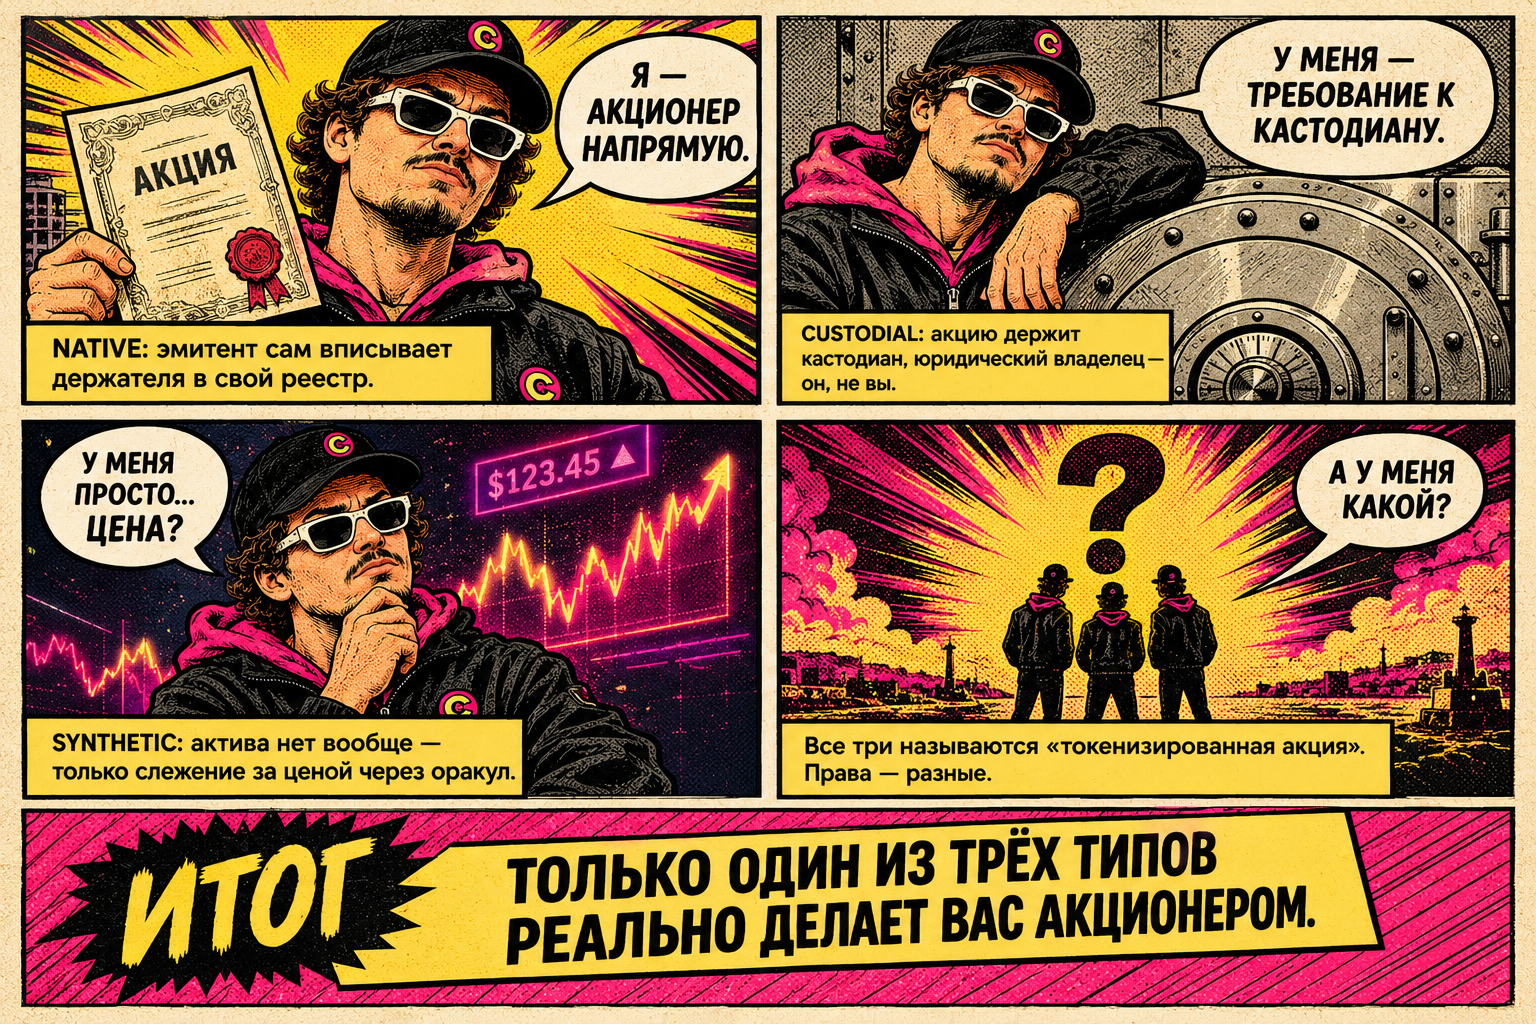
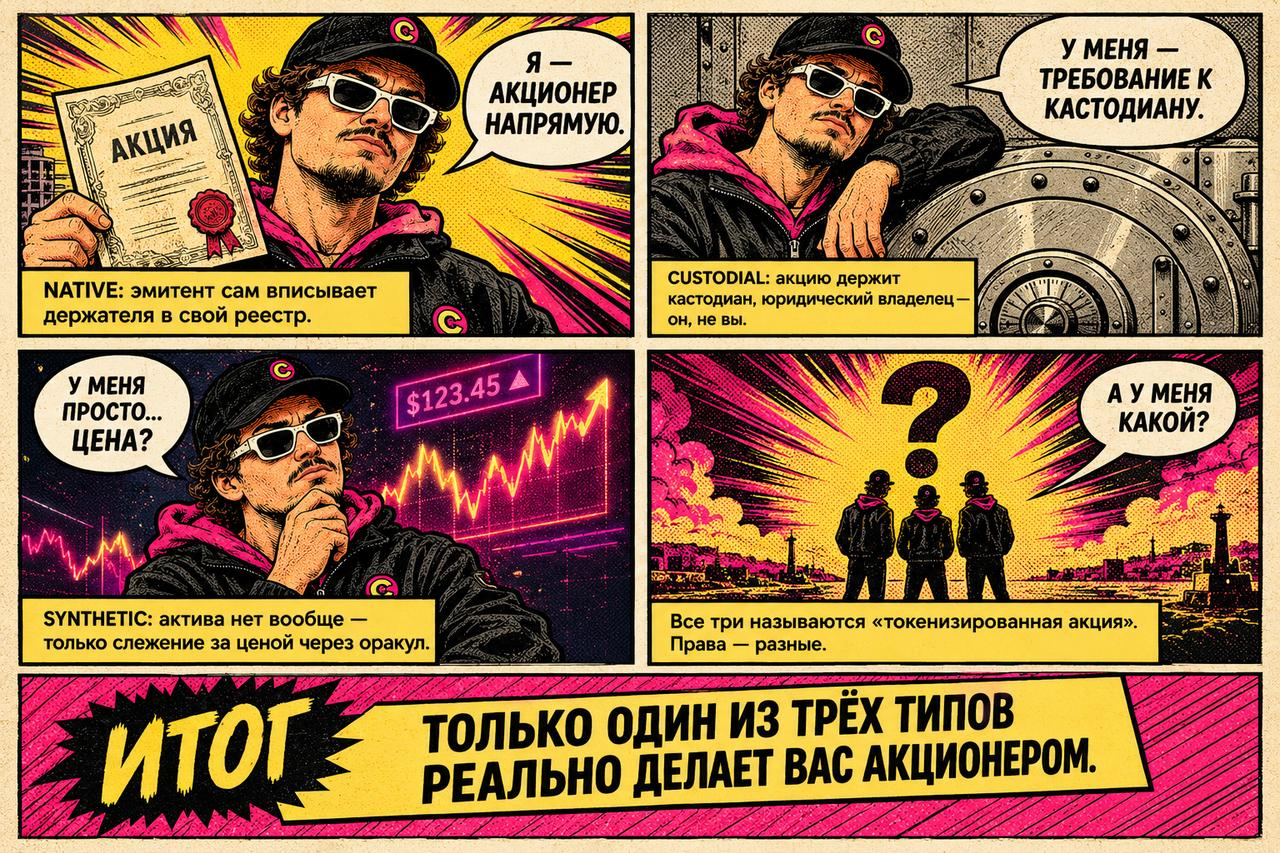
Тотальная оптимизация ассетов: ~24.6 МБ -> ~2.6 МБ без потери функционала
- keychain.png 1.68 МБ -> keychain.webp 140 КБ (альфа сохранена, хотспоты и анимации не тронуты)
- комиксы glossary: 6 x 3.6 МБ -> 340-485 КБ (1280px, progressive JPEG q75)
- OG-карточки: coursepreview 2.2 МБ -> 123 КБ, glossarypreview 1.8 МБ -> 89 КБ (ровно 1200x630)
- yurichhub/ai-screen/hermes/nebank/cfa/indexpreview: -45..-73%
- loading=lazy + decoding=async + width/height всем картинкам ниже фолда, hero: fetchpriority=high
- CSS/JS/анимации/структура не менялись

diff --git a/glossary.html b/glossary.html
@@ -496,7 +496,7 @@
         <div class="comic-plate">
           <div class="cp-kicker">Раздел 01 · в двух словах</div>
           <p class="cp-caption">почему «рынок вырос до $30 млрд» — не вся правда</p>
-          <div class="cp-frame" data-hint="comics1.jpg — сюда вставить фото"><img src="comics1.jpg" alt="Комикс: Total Value против TVL" onerror="this.style.display='none';this.parentNode.classList.add('no-img')"></div>
+          <div class="cp-frame" data-hint="comics1.jpg — сюда вставить фото"><img src="comics1.jpg" alt="Комикс: Total Value против TVL" onerror="this.style.display='none';this.parentNode.classList.add('no-img')" loading="lazy" decoding="async" width="1024" height="1536"></div>
         </div>
       </section>
 
@@ -554,7 +554,7 @@
         <div class="comic-plate">
           <div class="cp-kicker">Раздел 02 · в двух словах</div>
           <p class="cp-caption">три токена, три разных права — не путай</p>
-          <div class="cp-frame" data-hint="comics2.jpg — сюда вставить фото"><img src="comics2.jpg" alt="Комикс: три типа токенизированной акции" onerror="this.style.display='none';this.parentNode.classList.add('no-img')"></div>
+          <div class="cp-frame" data-hint="comics2.jpg — сюда вставить фото"><img src="comics2.jpg" alt="Комикс: три типа токенизированной акции" onerror="this.style.display='none';this.parentNode.classList.add('no-img')" loading="lazy" decoding="async" width="1280" height="853"></div>
         </div>
       </section>
 
@@ -612,7 +612,7 @@
         <div class="comic-plate">
           <div class="cp-kicker">Раздел 03 · в двух словах</div>
           <p class="cp-caption">«продам когда захочу» — миф</p>
-          <div class="cp-frame" data-hint="comics3.jpg — сюда вставить фото"><img src="comics3.jpg" alt="Комикс: мираж ликвидности" onerror="this.style.display='none';this.parentNode.classList.add('no-img')"></div>
+          <div class="cp-frame" data-hint="comics3.jpg — сюда вставить фото"><img src="comics3.jpg" alt="Комикс: мираж ликвидности" onerror="this.style.display='none';this.parentNode.classList.add('no-img')" loading="lazy" decoding="async" width="1280" height="853"></div>
         </div>
       </section>
 
@@ -670,7 +670,7 @@
         <div class="comic-plate">
           <div class="cp-kicker">Раздел 04 · в двух словах</div>
           <p class="cp-caption">доходность настоящая — просто не мгновенная</p>
-          <div class="cp-frame" data-hint="comics4.jpg — сюда вставить фото"><img src="comics4.jpg" alt="Комикс: доходность трежерис едет с задержкой" onerror="this.style.display='none';this.parentNode.classList.add('no-img')"></div>
+          <div class="cp-frame" data-hint="comics4.jpg — сюда вставить фото"><img src="comics4.jpg" alt="Комикс: доходность трежерис едет с задержкой" onerror="this.style.display='none';this.parentNode.classList.add('no-img')" loading="lazy" decoding="async" width="1280" height="853"></div>
         </div>
       </section>
 
@@ -728,7 +728,7 @@
         <div class="comic-plate">
           <div class="cp-kicker">Раздел 05 · в двух словах</div>
           <p class="cp-caption">12% на баннере редко доезжают до кошелька целиком</p>
-          <div class="cp-frame" data-hint="comics5.jpg — сюда вставить фото"><img src="comics5.jpg" alt="Комикс: заявленная против реализованной доходности" onerror="this.style.display='none';this.parentNode.classList.add('no-img')"></div>
+          <div class="cp-frame" data-hint="comics5.jpg — сюда вставить фото"><img src="comics5.jpg" alt="Комикс: заявленная против реализованной доходности" onerror="this.style.display='none';this.parentNode.classList.add('no-img')" loading="lazy" decoding="async" width="1280" height="853"></div>
         </div>
       </section>
 
@@ -786,7 +786,7 @@
         <div class="comic-plate">
           <div class="cp-kicker">Раздел 06 · в двух словах</div>
           <p class="cp-caption">ставка выше рынка — это не подарок</p>
-          <div class="cp-frame" data-hint="comics6.jpg — сюда вставить фото"><img src="comics6.jpg" alt="Комикс: слишком хорошая доходность" onerror="this.style.display='none';this.parentNode.classList.add('no-img')"></div>
+          <div class="cp-frame" data-hint="comics6.jpg — сюда вставить фото"><img src="comics6.jpg" alt="Комикс: слишком хорошая доходность" onerror="this.style.display='none';this.parentNode.classList.add('no-img')" loading="lazy" decoding="async" width="1280" height="853"></div>
         </div>
       </section>
 
@@ -846,7 +846,7 @@
         <div class="comic-plate">
           <div class="cp-kicker">Раздел 07 · в двух словах</div>
           <p class="cp-caption">токен не умеет чинить крышу</p>
-          <div class="cp-frame" data-hint="comics7.jpg — сюда вставить фото"><img src="comics7.jpg" alt="Комикс: токен не чинит крышу" onerror="this.style.display='none';this.parentNode.classList.add('no-img')"></div>
+          <div class="cp-frame" data-hint="comics7.jpg — сюда вставить фото"><img src="comics7.jpg" alt="Комикс: токен не чинит крышу" onerror="this.style.display='none';this.parentNode.classList.add('no-img')" loading="lazy" decoding="async"></div>
         </div>
       </section>
 
@@ -915,7 +915,7 @@
         <div class="comic-plate">
           <div class="cp-kicker">Раздел 08 · в двух словах</div>
           <p class="cp-caption">оракул не проверяет правду — он её пересказывает</p>
-          <div class="cp-frame" data-hint="comics8.jpg — сюда вставить фото"><img src="comics8.jpg" alt="Комикс: оракул пересказывает, а не проверяет" onerror="this.style.display='none';this.parentNode.classList.add('no-img')"></div>
+          <div class="cp-frame" data-hint="comics8.jpg — сюда вставить фото"><img src="comics8.jpg" alt="Комикс: оракул пересказывает, а не проверяет" onerror="this.style.display='none';this.parentNode.classList.add('no-img')" loading="lazy" decoding="async"></div>
         </div>
       </section>
 
@@ -962,7 +962,7 @@
         <div class="comic-plate">
           <div class="cp-kicker">Раздел 09 · в двух словах</div>
           <p class="cp-caption">слиток ваш, только если он выделен именно под вас</p>
-          <div class="cp-frame" data-hint="comics9.jpg — сюда вставить фото"><img src="comics9.jpg" alt="Комикс: аллокированный против неаллокированного металла" onerror="this.style.display='none';this.parentNode.classList.add('no-img')"></div>
+          <div class="cp-frame" data-hint="comics9.jpg — сюда вставить фото"><img src="comics9.jpg" alt="Комикс: аллокированный против неаллокированного металла" onerror="this.style.display='none';this.parentNode.classList.add('no-img')" loading="lazy" decoding="async"></div>
         </div>
       </section>
 
@@ -998,7 +998,7 @@
         <div class="comic-plate">
           <div class="cp-kicker">Раздел 10 · в двух словах</div>
           <p class="cp-caption">имя управляющего и имя платформы — не всегда один человек</p>
-          <div class="cp-frame" data-hint="comics10.jpg — сюда вставить фото"><img src="comics10.jpg" alt="Комикс: кто ведёт реестр держателей фонда" onerror="this.style.display='none';this.parentNode.classList.add('no-img')"></div>
+          <div class="cp-frame" data-hint="comics10.jpg — сюда вставить фото"><img src="comics10.jpg" alt="Комикс: кто ведёт реестр держателей фонда" onerror="this.style.display='none';this.parentNode.classList.add('no-img')" loading="lazy" decoding="async"></div>
         </div>
       </section>
 
@@ -1186,7 +1186,7 @@
         <div class="comic-plate">
           <div class="cp-kicker">Раздел 11 · в двух словах</div>
           <p class="cp-caption">регулятор защищает от мошенничества, а не от дефолта</p>
-          <div class="cp-frame" data-hint="comics11.jpg — сюда вставить фото"><img src="comics11.jpg" alt="Комикс: что регулирование ЦФА защищает, а что нет" onerror="this.style.display='none';this.parentNode.classList.add('no-img')"></div>
+          <div class="cp-frame" data-hint="comics11.jpg — сюда вставить фото"><img src="comics11.jpg" alt="Комикс: что регулирование ЦФА защищает, а что нет" onerror="this.style.display='none';this.parentNode.classList.add('no-img')" loading="lazy" decoding="async"></div>
         </div>
       </section>
 

diff --git a/index.html b/index.html
@@ -713,7 +713,7 @@
 <section class="hero" id="top">
   <div class="hero-bg" id="heroBg"></div>
   <div class="hero-portrait">
-    <img class="p-base" src="yurichhub.jpg" alt="YuRich Hub — портрет">
+    <img class="p-base" src="yurichhub.jpg" fetchpriority="high" decoding="async" width="640" height="640" alt="YuRich Hub — портрет">
   </div>
   <div class="hero-scrim"></div>
   <div class="spotlight" id="spotlight"></div>
@@ -815,7 +815,7 @@
       <a href="https://t.me/SevastopolAIBot" target="_blank" rel="noopener" class="btn magnetic" style="margin-top:22px;background:var(--gold);border-color:var(--gold);">Открыть Sevastopol AI</a>
     </div>
     <div class="routecard reveal">
-      <img src="ai-screen.jpg" alt="Родмап Sevastopol AI: локации, маршруты, события, сообщество">
+      <img src="ai-screen.jpg" loading="lazy" decoding="async" width="1024" height="1280" alt="Родмап Sevastopol AI: локации, маршруты, события, сообщество">
     </div>
   </div>
 </section>
@@ -828,7 +828,7 @@
     <div class="keychain-stage">
       <div class="kc-photo-wrap">
         <div class="kc-tilt">
-          <img class="kc-photo" src="keychain.png" alt="Связка ключей City Code: Code, Privileges, Partner Circle, Events, Insights, Member Circle">
+          <img class="kc-photo" src="keychain.webp" loading="lazy" decoding="async" width="1536" height="1024" alt="Связка ключей City Code: Code, Privileges, Partner Circle, Events, Insights, Member Circle">
         </div>
         <div class="kc-hotspots">
           <button type="button" class="kc-hot hs-hex"    data-key="code"       title="Code"            aria-label="01 Code" style="--hc:#d7ff3d;"></button>
@@ -868,11 +868,11 @@
   <div class="wrap">
     <div class="partners">
       <a class="partner magnetic" href="https://t.me/thehermesex" target="_blank" rel="noopener">
-        <img class="hermes" src="hermes.jpg" alt="Hermes Exchange">
+        <img class="hermes" src="hermes.jpg" loading="lazy" decoding="async" width="336" height="336" alt="Hermes Exchange">
         <small>Hermes Exchange (Financial infra)</small>
       </a>
       <a class="partner magnetic" href="https://t.me/NeBankRobot?start=YURICH" target="_blank" rel="noopener">
-        <img class="nebank" src="nebank.png" alt="Небанк App">
+        <img class="nebank" src="nebank.png" loading="lazy" decoding="async" width="389" height="317" alt="Небанк App">
         <small>Небанк App (Financial infra)</small>
       </a>
     </div>
